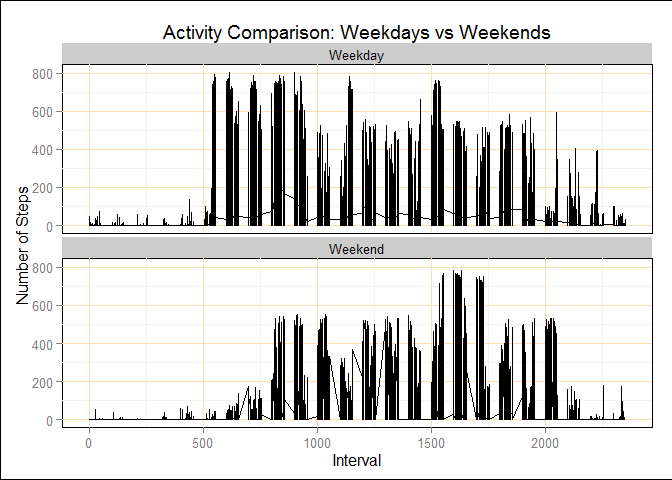
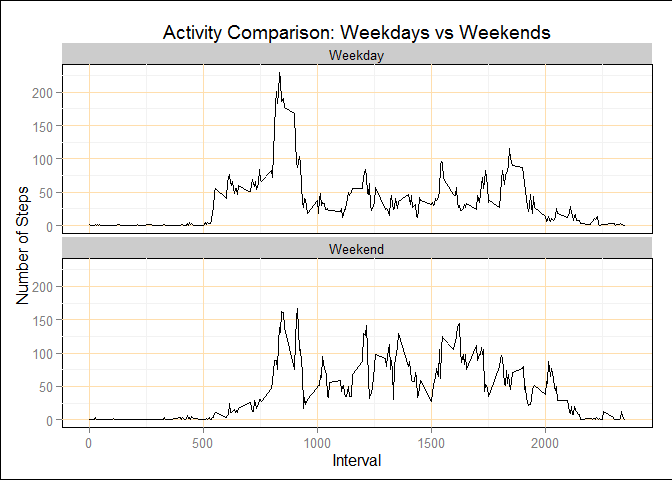
Whoa, I don't know where that last plot came from but it was really not correct.

diff --git a/PA1_template.html b/PA1_template.html
@@ -123,13 +123,15 @@ imputedMedianStepsPerDay &lt;- median(imputedStepsPerDay$steps)</code></pre>
 imputedDataToPlot &lt;- cbind(imputedData, as.factor(ifelse(as.POSIXlt(imputedData$date)$wd %in% c(0, 6), &quot;Weekend&quot;, &quot;Weekday&quot;)))
 colnames(imputedDataToPlot)[4] &lt;- &quot;TypeOfDay&quot;
 
-g &lt;- ggplot(imputedDataToPlot, aes(interval, steps))
+imputedMeanStepsPerInterval &lt;- aggregate(steps ~ interval+TypeOfDay, data=imputedDataToPlot, FUN=mean)
+
+g &lt;- ggplot(imputedMeanStepsPerInterval, aes(interval, steps))
 g &lt;- g + geom_line(aes(group=TypeOfDay)) +
     facet_wrap(~TypeOfDay, ncol=1) +
     labs(x = &quot;Interval&quot;, y = &quot;Number of Steps&quot;, title=&quot;Activity Comparison: Weekdays vs Weekends&quot;) +
     theme(panel.background = element_rect(fill = &quot;#FFFFFF&quot;, colour = &quot;#000000&quot;), plot.background = element_rect(fill = &quot;#FFFFFF&quot;, colour = &quot;#000000&quot;), panel.grid.major = element_line(colour=&quot;#FFDEAD&quot;))
 g</code></pre>
[2 lines of base64/hex data omitted]
 <p>It would seem that the differences in activity pattern during the weekends and weekdays mostly centers around sleeping in during the weekends (and therefore less activity in the earlier morning hours). There is also slightly more activity during weeknights, which could correspond to working later or perhaps running errands later at night due to work commitments.</p>
 </div>
 

diff --git a/PA1_template.md b/PA1_template.md
@@ -87,7 +87,9 @@ The impact of imputing the missing data using the method chosen seems to have ha
 imputedDataToPlot <- cbind(imputedData, as.factor(ifelse(as.POSIXlt(imputedData$date)$wd %in% c(0, 6), "Weekend", "Weekday")))
 colnames(imputedDataToPlot)[4] <- "TypeOfDay"
 
-g <- ggplot(imputedDataToPlot, aes(interval, steps))
+imputedMeanStepsPerInterval <- aggregate(steps ~ interval+TypeOfDay, data=imputedDataToPlot, FUN=mean)
+
+g <- ggplot(imputedMeanStepsPerInterval, aes(interval, steps))
 g <- g + geom_line(aes(group=TypeOfDay)) +
 	facet_wrap(~TypeOfDay, ncol=1) +
 	labs(x = "Interval", y = "Number of Steps", title="Activity Comparison: Weekdays vs Weekends") +
